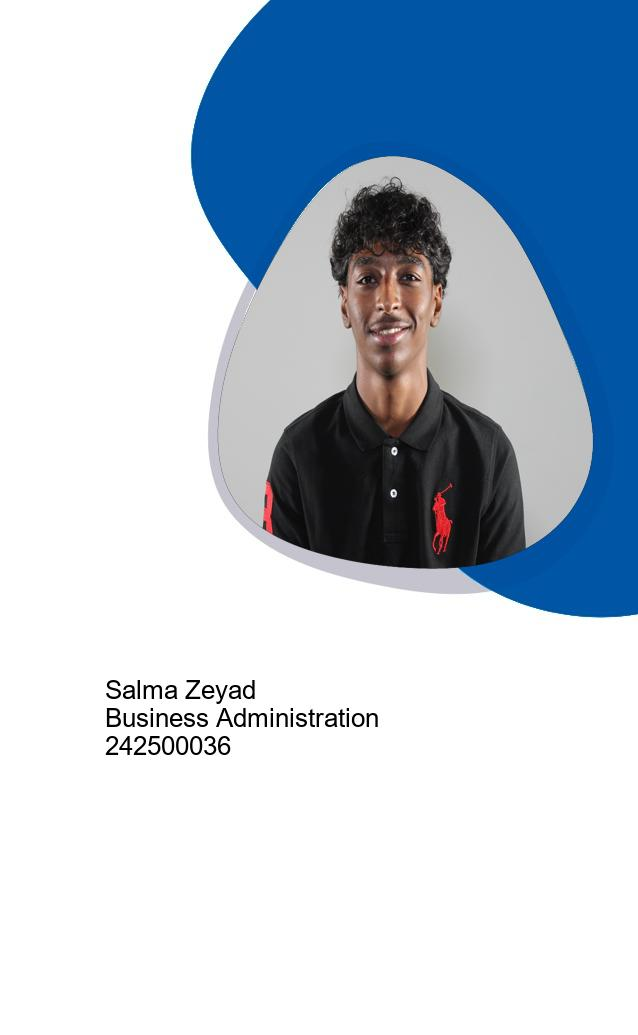
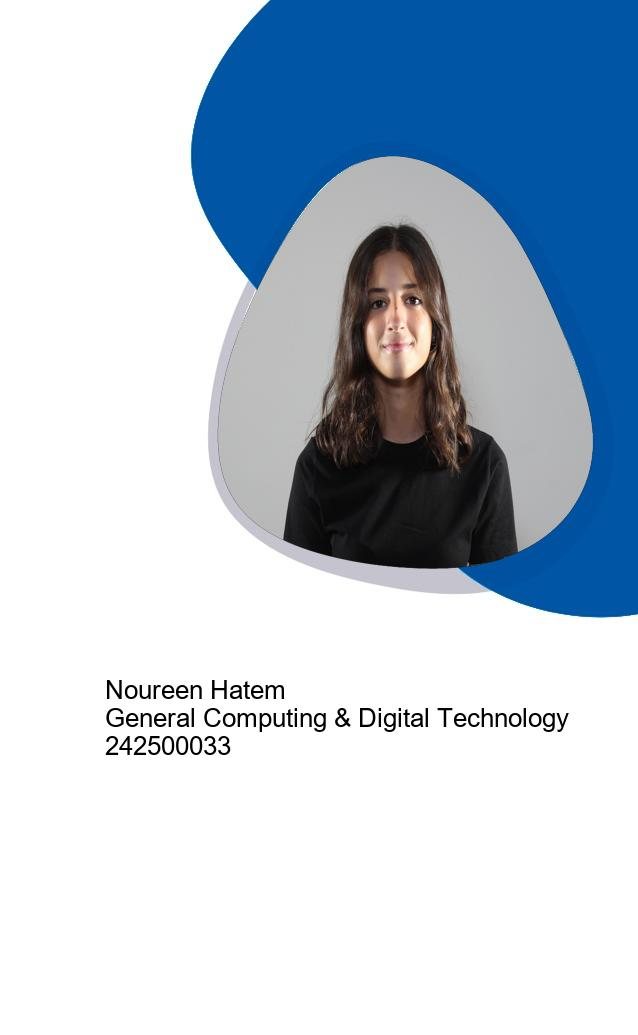
Name changes

Changed region(s): [[0.3871, 0.1546, 0.8339, 0.5565], [0.1489, 0.6493, 0.8934, 0.742]]

diff --git a/generate_ids.py b/generate_ids.py
@@ -18,6 +18,12 @@ def generate_ids(photo_folder_path):
 
     os.makedirs(OUTPUT_FOLDER, exist_ok=True)
 
+    def split_name(stName: str):
+        names=[]
+        for name in stName.split(" "):
+            names.append(name)
+        return names
+
     # Util: create circular masked image
     def create_masked_image(photo, mask_path, mask_size):
         mask = Image.open(mask_path).convert("L").resize(mask_size)
@@ -40,15 +46,21 @@ def generate_ids(photo_folder_path):
 
         try:
             # Fetch student info from DB using the ID
-            student_data = db.fetch_student(student_credentials="", db_intake=sid)
+
+            student_data = db.fetch_student("",sid)[0]
             if not student_data:
                 print(f"❌ No student data found for ID: {sid}")
                 continue
 
             # Get relevant fields from first result row
-            row = student_data[0]
-            name = row.Eng_FullName.strip()
-            major = row.CURRICULUM.strip()
+            name = split_name(student_data[1])
+            major = student_data[8]
+            
+            name_first=name[0]
+            name_second=name[1]
+            
+            
+            
 
             photo_path = os.path.join(photo_folder_path, filename)
             if not os.path.exists(photo_path):
@@ -76,7 +88,7 @@ def generate_ids(photo_folder_path):
             font = ImageFont.truetype(FONT_PATH, 26)
             y_start = 150 + MASK_SIZE[1] + 5
             spacing = 28
-            left_text(draw, name, font, 105, y_start)
+            left_text(draw, name_first + " " + name_second, font, 105, y_start)
             left_text(draw, major, font, 105, y_start + spacing)
             left_text(draw, sid, font, 105, y_start + spacing * 2)
 
@@ -90,10 +102,11 @@ def generate_ids(photo_folder_path):
             pdf.add_page()
             pdf.image("temp_back.jpg", x=0, y=0, w=210, h=297)
 
-            output_path = os.path.join(OUTPUT_FOLDER, f"{name} - {sid}.pdf")
+            output_path = os.path.join(OUTPUT_FOLDER, f"{name_first} {name_second} - {sid}.pdf")
             pdf.output(output_path)
             print(f"✅ Saved: {output_path}")
 
         except Exception as e:
             print(f"❌ Error processing ID {sid}: {e}")
-
+    # Close connection
+    db.close_connection()

diff --git a/pcdb.py b/pcdb.py
@@ -4,11 +4,11 @@ class PCDB:
     def __init__(self):
         # Connects to the PCDB_PROD SQL Server database
         self.connection = pyodbc.connect(
-            'DRIVER={ODBC Driver 18 for SQL Server};'
+            'DRIVER={ODBC Driver 17 for SQL Server};'
             'SERVER=172.16.16.13;'
             'DATABASE=PCDB_PROD;'
             'UID=hassan;'
-            'PWD=Eslsca1234'
+            'PWD=Eslsca1234;'
             'TrustServerCertificate=yes;'
         )
         
@@ -74,7 +74,8 @@ WHERE PEOPLE_ID LIKE '{db_intake}%' OR [Personal Email] = '{student_credentials}
         self.cursor.execute(query)
         result = self.cursor.fetchall()
 
-        # Close connection
-        self.connection.close()
 
         return result
+
+    def close_connection(self):
+        self.connection.close()
